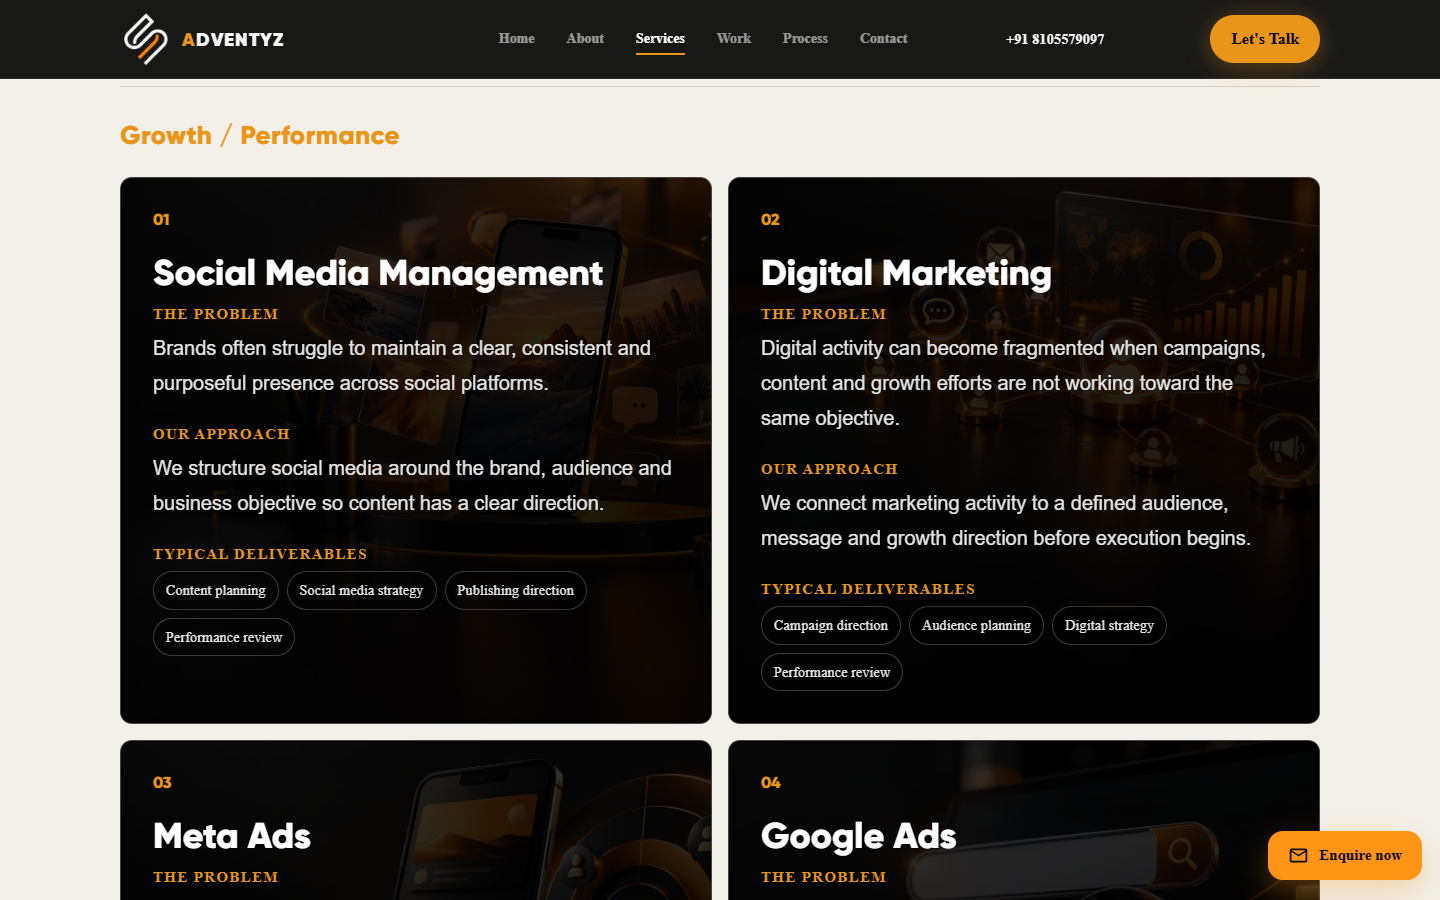
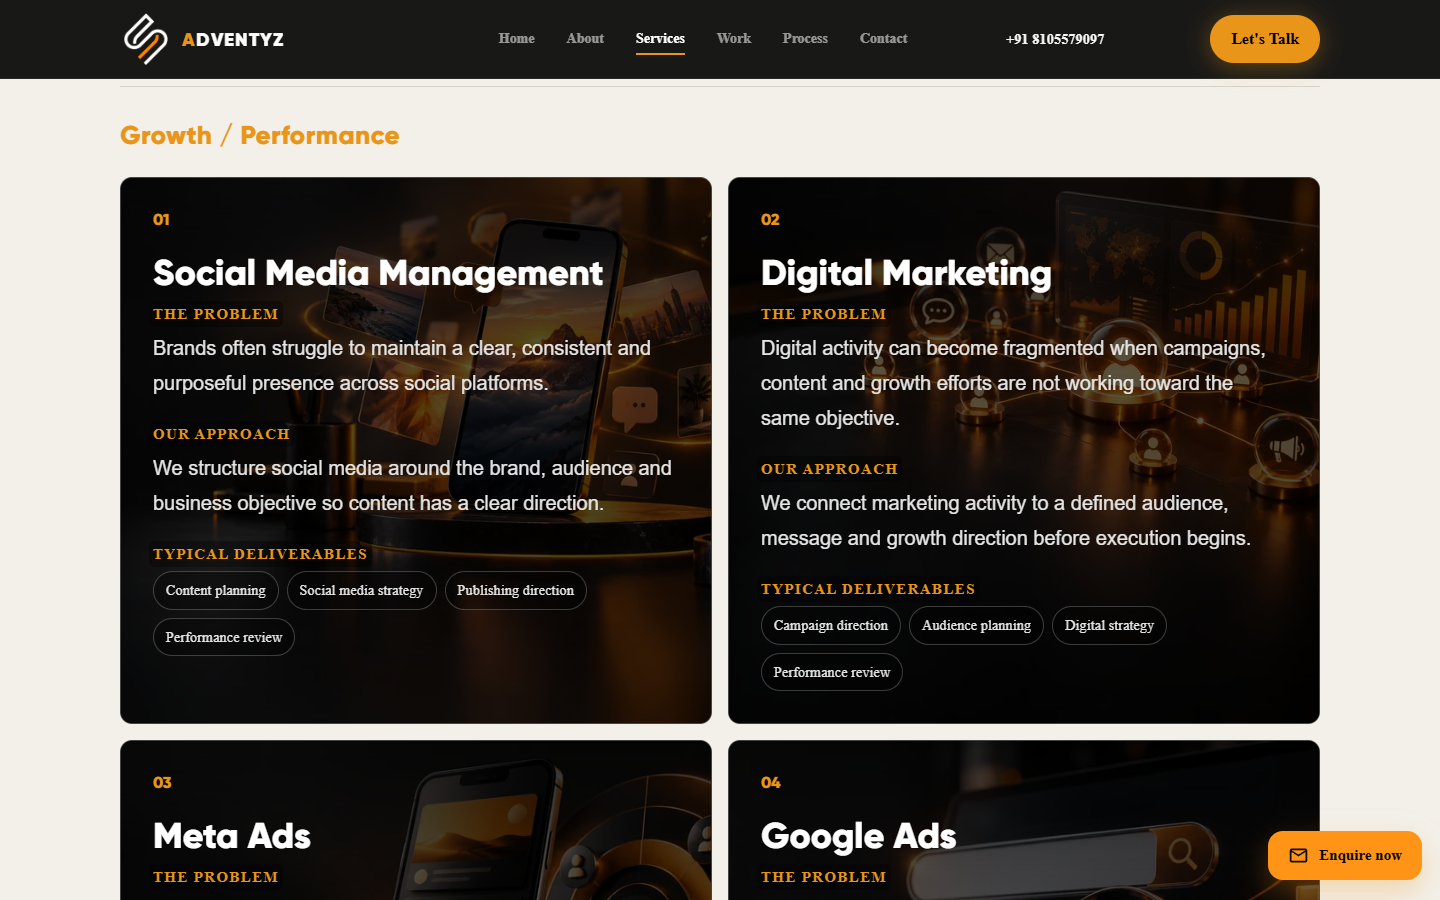
Lighten service artwork overlays while protecting text contrast

diff --git a/src/styles/service-card-images.css b/src/styles/service-card-images.css
@@ -29,12 +29,12 @@
   inset: 0;
   z-index: -1;
   pointer-events: none;
-  background: linear-gradient(180deg, rgba(0, 0, 0, 0.8), rgba(0, 0, 0, 0.58) 35%, rgba(0, 0, 0, 0.9));
+  background: linear-gradient(180deg, rgba(0, 0, 0, 0.8), rgba(0, 0, 0, 0.68) 30%, rgba(0, 0, 0, 0.48) 45%, rgba(0, 0, 0, 0.7) 65%, rgba(0, 0, 0, 0.8));
 }
 
 .services-page__card.service-card--illustrated::before {
   /* Detailed copy needs a stronger scrim even over bright image highlights. */
-  background: linear-gradient(180deg, rgba(0, 0, 0, 0.8), rgba(0, 0, 0, 0.86) 35%, rgba(0, 0, 0, 0.94));
+  background: linear-gradient(180deg, rgba(0, 0, 0, 0.8), rgba(0, 0, 0, 0.65) 35%, rgba(0, 0, 0, 0.78));
 }
 
 .services-preview__card.service-card--illustrated h3 {
@@ -43,8 +43,19 @@
 
 .service-card--illustrated .services-preview__category {
   color: #f0f0f0;
+  background: rgba(0, 0, 0, 0.25);
+  box-shadow: 0 0 0 4px rgba(0, 0, 0, 0.25);
+  border-radius: 2px;
 }
 
 .service-card--illustrated .services-page__deliverables li {
   background: rgba(0, 0, 0, 0.3);
+}
+
+/* Protect small orange labels locally while keeping the artwork visible. */
+.service-card--illustrated .services-page__content-label {
+  width: fit-content;
+  background: rgba(0, 0, 0, 0.35);
+  box-shadow: 0 0 0 4px rgba(0, 0, 0, 0.35);
+  border-radius: 2px;
 }

diff --git a/docs/service-card-backgrounds.md b/docs/service-card-backgrounds.md
@@ -34,10 +34,14 @@ Artwork is stored locally in `src/assets/images/services/` as 480×320 and 960×
 - Browser console and uncaught-error capture reported zero errors during those checks.
 - Mobile Home → Services CTA, direct Services load and reload passed. Reduced-motion rendering and the existing normal reveal animation were checked.
 - Desktop and mobile screenshots were visually inspected for subject distinction, crop, legibility and card layout. Example screenshots are linked below. Some screenshot headings are above the viewport after scrolling to the cards; this is the existing sticky header behavior.
-- Contrast measured over actual rendered image backgrounds at 320, 390 and 1440px across all cards: 351 text bounding regions passed a conservative 4.5:1 threshold; minimum measured ratio was 4.83:1. Text was temporarily hidden for background sampling, and unrelated fixed header/enquiry controls were excluded from these measurements. This is a targeted contrast check, not a full accessibility certification.
+- Contrast measured over actual rendered image backgrounds at 320, 390 and 1440px across all cards: 351 text bounding regions passed a conservative 4.5:1 threshold; minimum measured ratio was 4.72:1 after lightening the overlays. Text was temporarily made transparent for background sampling while retaining label backplates, and unrelated fixed header/enquiry controls were excluded from these measurements. This is a targeted contrast check, not a full accessibility certification.
 - `git diff --check`: passed.
 
 Performance verification covers payload sizes, responsive sources, lazy/async loading and layout stability by construction. No Lighthouse score or real-device/network benchmark is claimed. Existing large hero images are outside this change. Browser testing used the local production preview; hosted routing and production infrastructure were not changed or tested.
+
+## Lighter overlay revision
+
+Reduced the shading across the image detail and lower portion of the Home cards. Services cards now use 65% black at the middle and 78% at the bottom, down from 86% and 94%, so artwork is more apparent behind the copy. The top remains shaded for orange numbers. Subtle local backplates protect small category and section labels without darkening the entire image. Updated screenshots below show this revision. Build, lint, all 14 route/width checks, mobile navigation/refresh and the 351-region contrast check passed again. Image bytes and loading behavior are unchanged.
 
 ![Home cards at 390px](service-card-assets/home-390.png)
 
